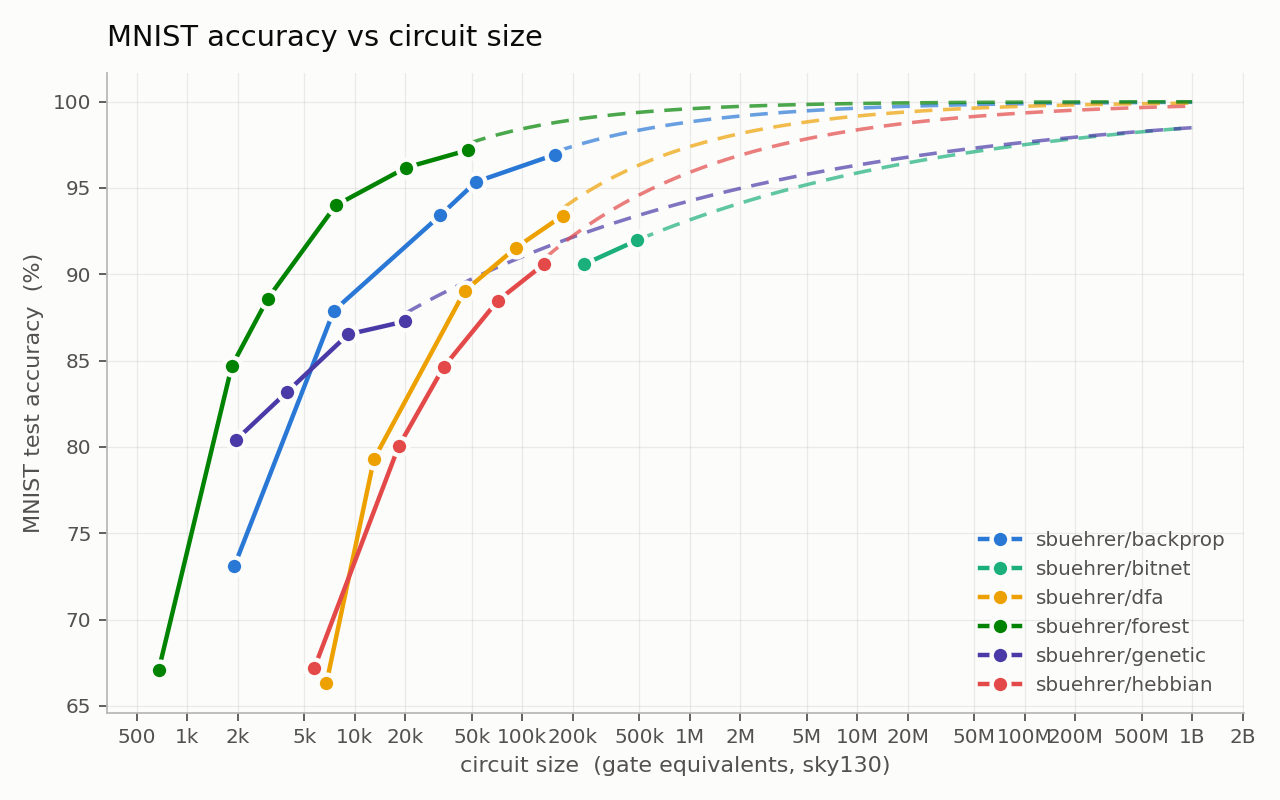
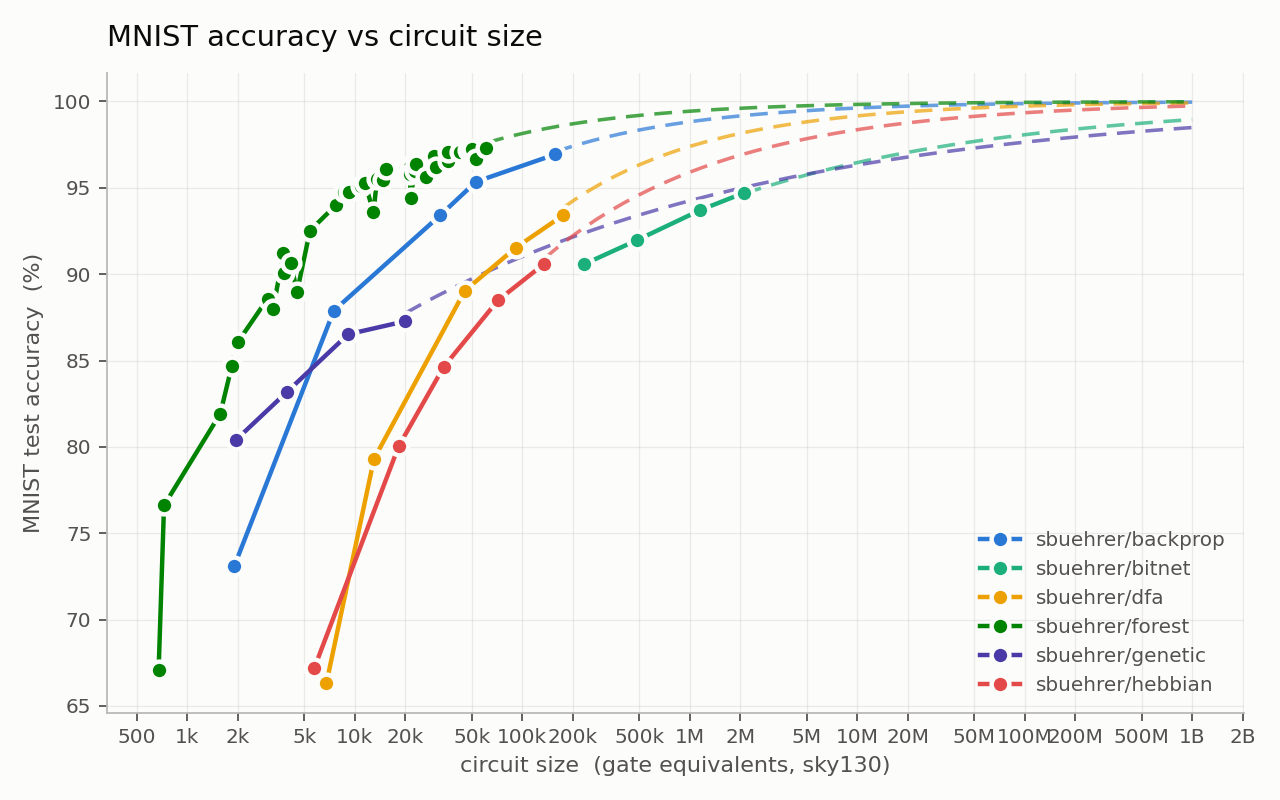
Re-render the board: bitnet l, and forest's sweep candidates
Intermediate snapshot; the board is rebuilt again when the queued jobs land.

New since the last render: bitnet l (94.71% at 2,111,700 GE), which is the
record's point of comparison -- dense ternary arithmetic buys 94.7% for 2.1M
gate equivalents where a boosted forest buys 97.2% for 48k.

The forest rows include the 33 sweep candidates (c0-c23, g0-g8) that were
merged into its results.json by the grid run. They are real measured circuits,
so they are not removed, but they are not shipped points either: forest's
POINTS was retuned to xxs..xxl afterwards and its artifacts cleared, so the
queued rebuild will rewrite results.json through merge_record, which keeps
only POINTS names. The forest xs/l/xl rows here also predate that retune and
were measured at different configs than POINTS now lists.

Still to land: forest (all 7 points), bitnet xl, genetic xl.

diff --git a/README.md b/README.md
@@ -40,29 +40,64 @@ Every point trains until it stops improving on the validation set, not to a fixe
 <!-- LEADERBOARD -->
 | | record | point | gate equivalents | depth | MNIST test acc | test CE |
 |---|---|---|---|---|---|---|
+| * | `sbuehrer/forest` | c23 | 61,159 | 230 | **97.31%** | 0.081 |
+| * | `sbuehrer/forest` | c21 | 50,412 | 229 | **97.26%** | 0.084 |
 | * | `sbuehrer/forest` | xl | 47,794 | 257 | **97.20%** | 0.086 |
+|  | `sbuehrer/forest` | c20 | 48,078 | 267 | **97.12%** | 0.088 |
+| * | `sbuehrer/forest` | c19 | 42,459 | 192 | **97.07%** | 0.093 |
+| * | `sbuehrer/forest` | c16 | 36,039 | 248 | **97.06%** | 0.093 |
 |  | `sbuehrer/backprop` | xl | 156,861 | 285 | **96.93%** | 0.102 |
+| * | `sbuehrer/forest` | c15 | 29,776 | 235 | **96.82%** | 0.102 |
+|  | `sbuehrer/forest` | c22 | 52,668 | 198 | **96.66%** | 0.101 |
+|  | `sbuehrer/forest` | c18 | 35,880 | 204 | **96.55%** | 0.112 |
+| * | `sbuehrer/forest` | c13 | 23,358 | 249 | **96.40%** | 0.114 |
+| * | `sbuehrer/forest` | c12 | 21,366 | 220 | **96.21%** | 0.119 |
+|  | `sbuehrer/forest` | c17 | 30,755 | 238 | **96.19%** | 0.117 |
 | * | `sbuehrer/forest` | l | 20,272 | 235 | **96.18%** | 0.119 |
+| * | `sbuehrer/forest` | g8 | 15,449 | 206 | **96.08%** | 0.121 |
+|  | `sbuehrer/forest` | c11 | 22,779 | 255 | **95.97%** | 0.121 |
+|  | `sbuehrer/forest` | c9 | 21,420 | 247 | **95.80%** | 0.132 |
+|  | `sbuehrer/forest` | c14 | 26,575 | 295 | **95.63%** | 0.130 |
+| * | `sbuehrer/forest` | g6 | 13,605 | 218 | **95.50%** | 0.143 |
+|  | `sbuehrer/forest` | g7 | 14,684 | 174 | **95.45%** | 0.143 |
 |  | `sbuehrer/backprop` | l | 52,973 | 238 | **95.35%** | 0.152 |
+| * | `sbuehrer/forest` | g5 | 11,554 | 170 | **95.27%** | 0.145 |
+| * | `sbuehrer/forest` | g4 | 10,977 | 205 | **95.13%** | 0.154 |
+| * | `sbuehrer/forest` | c7 | 8,672 | 198 | **94.76%** | 0.166 |
+|  | `sbuehrer/forest` | c6 | 9,292 | 181 | **94.76%** | 0.165 |
+|  | `sbuehrer/bitnet` | l | 2,111,700 | 601 | **94.71%** | 0.208 |
+|  | `sbuehrer/forest` | c10 | 21,564 | 279 | **94.40%** | 0.166 |
 | * | `sbuehrer/forest` | m | 7,711 | 188 | **93.99%** | 0.201 |
+|  | `sbuehrer/bitnet` | m | 1,156,908 | 682 | **93.71%** | 0.257 |
+|  | `sbuehrer/forest` | c8 | 12,945 | 251 | **93.58%** | 0.191 |
 |  | `sbuehrer/backprop` | m | 32,425 | 237 | **93.41%** | 0.213 |
 |  | `sbuehrer/dfa` | xl | 174,903 | 313 | **93.40%** | 0.216 |
+| * | `sbuehrer/forest` | c5 | 5,413 | 171 | **92.52%** | 0.240 |
 |  | `sbuehrer/bitnet` | s | 482,469 | 457 | **91.96%** | 0.328 |
 |  | `sbuehrer/dfa` | l | 91,506 | 282 | **91.53%** | 0.265 |
+| * | `sbuehrer/forest` | c3 | 3,761 | 140 | **91.21%** | 0.282 |
+|  | `sbuehrer/forest` | c4 | 4,181 | 152 | **90.62%** | 0.299 |
 |  | `sbuehrer/hebbian` | xl | 135,783 | 284 | **90.61%** | 0.304 |
 |  | `sbuehrer/bitnet` | xs | 233,380 | 439 | **90.57%** | 0.361 |
+|  | `sbuehrer/forest` | c1 | 3,791 | 151 | **90.08%** | 0.305 |
 |  | `sbuehrer/dfa` | m | 45,455 | 244 | **89.04%** | 0.331 |
+|  | `sbuehrer/forest` | c0 | 4,522 | 182 | **88.94%** | 0.345 |
 | * | `sbuehrer/forest` | s | 3,027 | 141 | **88.59%** | 0.389 |
 |  | `sbuehrer/hebbian` | l | 71,640 | 270 | **88.48%** | 0.365 |
+|  | `sbuehrer/forest` | c2 | 3,255 | 153 | **87.96%** | 0.364 |
 |  | `sbuehrer/backprop` | s | 7,514 | 188 | **87.89%** | 0.390 |
 |  | `sbuehrer/genetic` | l | 20,114 | 206 | **87.28%** | 0.422 |
 |  | `sbuehrer/genetic` | m | 9,146 | 191 | **86.52%** | 0.444 |
+| * | `sbuehrer/forest` | g3 | 2,012 | 134 | **86.08%** | 0.466 |
+| * | `sbuehrer/forest` | g2 | 1,960 | 133 | **85.91%** | 0.460 |
 | * | `sbuehrer/forest` | xs | 1,848 | 142 | **84.69%** | 0.538 |
 |  | `sbuehrer/hebbian` | m | 33,958 | 239 | **84.62%** | 0.470 |
 |  | `sbuehrer/genetic` | s | 3,920 | 156 | **83.16%** | 0.558 |
+| * | `sbuehrer/forest` | g1 | 1,577 | 132 | **81.92%** | 0.593 |
 |  | `sbuehrer/genetic` | xs | 1,945 | 129 | **80.38%** | 0.627 |
 |  | `sbuehrer/hebbian` | s | 18,322 | 227 | **80.04%** | 0.604 |
 |  | `sbuehrer/dfa` | s | 13,036 | 206 | **79.29%** | 0.612 |
+| * | `sbuehrer/forest` | g0 | 728 | 99 | **76.61%** | 0.769 |
 |  | `sbuehrer/backprop` | xs | 1,913 | 130 | **73.10%** | 0.782 |
 |  | `sbuehrer/hebbian` | xs | 5,752 | 177 | **67.21%** | 0.970 |
 | * | `sbuehrer/forest` | tiny | 676 | 115 | **67.07%** | 1.062 |

diff --git a/results/leaderboard.md b/results/leaderboard.md
@@ -1,28 +1,63 @@
 | | record | point | gate equivalents | depth | MNIST test acc | test CE |
 |---|---|---|---|---|---|---|
+| * | `sbuehrer/forest` | c23 | 61,159 | 230 | **97.31%** | 0.081 |
+| * | `sbuehrer/forest` | c21 | 50,412 | 229 | **97.26%** | 0.084 |
 | * | `sbuehrer/forest` | xl | 47,794 | 257 | **97.20%** | 0.086 |
+|  | `sbuehrer/forest` | c20 | 48,078 | 267 | **97.12%** | 0.088 |
+| * | `sbuehrer/forest` | c19 | 42,459 | 192 | **97.07%** | 0.093 |
+| * | `sbuehrer/forest` | c16 | 36,039 | 248 | **97.06%** | 0.093 |
 |  | `sbuehrer/backprop` | xl | 156,861 | 285 | **96.93%** | 0.102 |
+| * | `sbuehrer/forest` | c15 | 29,776 | 235 | **96.82%** | 0.102 |
+|  | `sbuehrer/forest` | c22 | 52,668 | 198 | **96.66%** | 0.101 |
+|  | `sbuehrer/forest` | c18 | 35,880 | 204 | **96.55%** | 0.112 |
+| * | `sbuehrer/forest` | c13 | 23,358 | 249 | **96.40%** | 0.114 |
+| * | `sbuehrer/forest` | c12 | 21,366 | 220 | **96.21%** | 0.119 |
+|  | `sbuehrer/forest` | c17 | 30,755 | 238 | **96.19%** | 0.117 |
 | * | `sbuehrer/forest` | l | 20,272 | 235 | **96.18%** | 0.119 |
+| * | `sbuehrer/forest` | g8 | 15,449 | 206 | **96.08%** | 0.121 |
+|  | `sbuehrer/forest` | c11 | 22,779 | 255 | **95.97%** | 0.121 |
+|  | `sbuehrer/forest` | c9 | 21,420 | 247 | **95.80%** | 0.132 |
+|  | `sbuehrer/forest` | c14 | 26,575 | 295 | **95.63%** | 0.130 |
+| * | `sbuehrer/forest` | g6 | 13,605 | 218 | **95.50%** | 0.143 |
+|  | `sbuehrer/forest` | g7 | 14,684 | 174 | **95.45%** | 0.143 |
 |  | `sbuehrer/backprop` | l | 52,973 | 238 | **95.35%** | 0.152 |
+| * | `sbuehrer/forest` | g5 | 11,554 | 170 | **95.27%** | 0.145 |
+| * | `sbuehrer/forest` | g4 | 10,977 | 205 | **95.13%** | 0.154 |
+| * | `sbuehrer/forest` | c7 | 8,672 | 198 | **94.76%** | 0.166 |
+|  | `sbuehrer/forest` | c6 | 9,292 | 181 | **94.76%** | 0.165 |
+|  | `sbuehrer/bitnet` | l | 2,111,700 | 601 | **94.71%** | 0.208 |
+|  | `sbuehrer/forest` | c10 | 21,564 | 279 | **94.40%** | 0.166 |
 | * | `sbuehrer/forest` | m | 7,711 | 188 | **93.99%** | 0.201 |
+|  | `sbuehrer/bitnet` | m | 1,156,908 | 682 | **93.71%** | 0.257 |
+|  | `sbuehrer/forest` | c8 | 12,945 | 251 | **93.58%** | 0.191 |
 |  | `sbuehrer/backprop` | m | 32,425 | 237 | **93.41%** | 0.213 |
 |  | `sbuehrer/dfa` | xl | 174,903 | 313 | **93.40%** | 0.216 |
+| * | `sbuehrer/forest` | c5 | 5,413 | 171 | **92.52%** | 0.240 |
 |  | `sbuehrer/bitnet` | s | 482,469 | 457 | **91.96%** | 0.328 |
 |  | `sbuehrer/dfa` | l | 91,506 | 282 | **91.53%** | 0.265 |
+| * | `sbuehrer/forest` | c3 | 3,761 | 140 | **91.21%** | 0.282 |
+|  | `sbuehrer/forest` | c4 | 4,181 | 152 | **90.62%** | 0.299 |
 |  | `sbuehrer/hebbian` | xl | 135,783 | 284 | **90.61%** | 0.304 |
 |  | `sbuehrer/bitnet` | xs | 233,380 | 439 | **90.57%** | 0.361 |
+|  | `sbuehrer/forest` | c1 | 3,791 | 151 | **90.08%** | 0.305 |
 |  | `sbuehrer/dfa` | m | 45,455 | 244 | **89.04%** | 0.331 |
+|  | `sbuehrer/forest` | c0 | 4,522 | 182 | **88.94%** | 0.345 |
 | * | `sbuehrer/forest` | s | 3,027 | 141 | **88.59%** | 0.389 |
 |  | `sbuehrer/hebbian` | l | 71,640 | 270 | **88.48%** | 0.365 |
+|  | `sbuehrer/forest` | c2 | 3,255 | 153 | **87.96%** | 0.364 |
 |  | `sbuehrer/backprop` | s | 7,514 | 188 | **87.89%** | 0.390 |
 |  | `sbuehrer/genetic` | l | 20,114 | 206 | **87.28%** | 0.422 |
 |  | `sbuehrer/genetic` | m | 9,146 | 191 | **86.52%** | 0.444 |
+| * | `sbuehrer/forest` | g3 | 2,012 | 134 | **86.08%** | 0.466 |
+| * | `sbuehrer/forest` | g2 | 1,960 | 133 | **85.91%** | 0.460 |
 | * | `sbuehrer/forest` | xs | 1,848 | 142 | **84.69%** | 0.538 |
 |  | `sbuehrer/hebbian` | m | 33,958 | 239 | **84.62%** | 0.470 |
 |  | `sbuehrer/genetic` | s | 3,920 | 156 | **83.16%** | 0.558 |
+| * | `sbuehrer/forest` | g1 | 1,577 | 132 | **81.92%** | 0.593 |
 |  | `sbuehrer/genetic` | xs | 1,945 | 129 | **80.38%** | 0.627 |
 |  | `sbuehrer/hebbian` | s | 18,322 | 227 | **80.04%** | 0.604 |
 |  | `sbuehrer/dfa` | s | 13,036 | 206 | **79.29%** | 0.612 |
+| * | `sbuehrer/forest` | g0 | 728 | 99 | **76.61%** | 0.769 |
 |  | `sbuehrer/backprop` | xs | 1,913 | 130 | **73.10%** | 0.782 |
 |  | `sbuehrer/hebbian` | xs | 5,752 | 177 | **67.21%** | 0.970 |
 | * | `sbuehrer/forest` | tiny | 676 | 115 | **67.07%** | 1.062 |